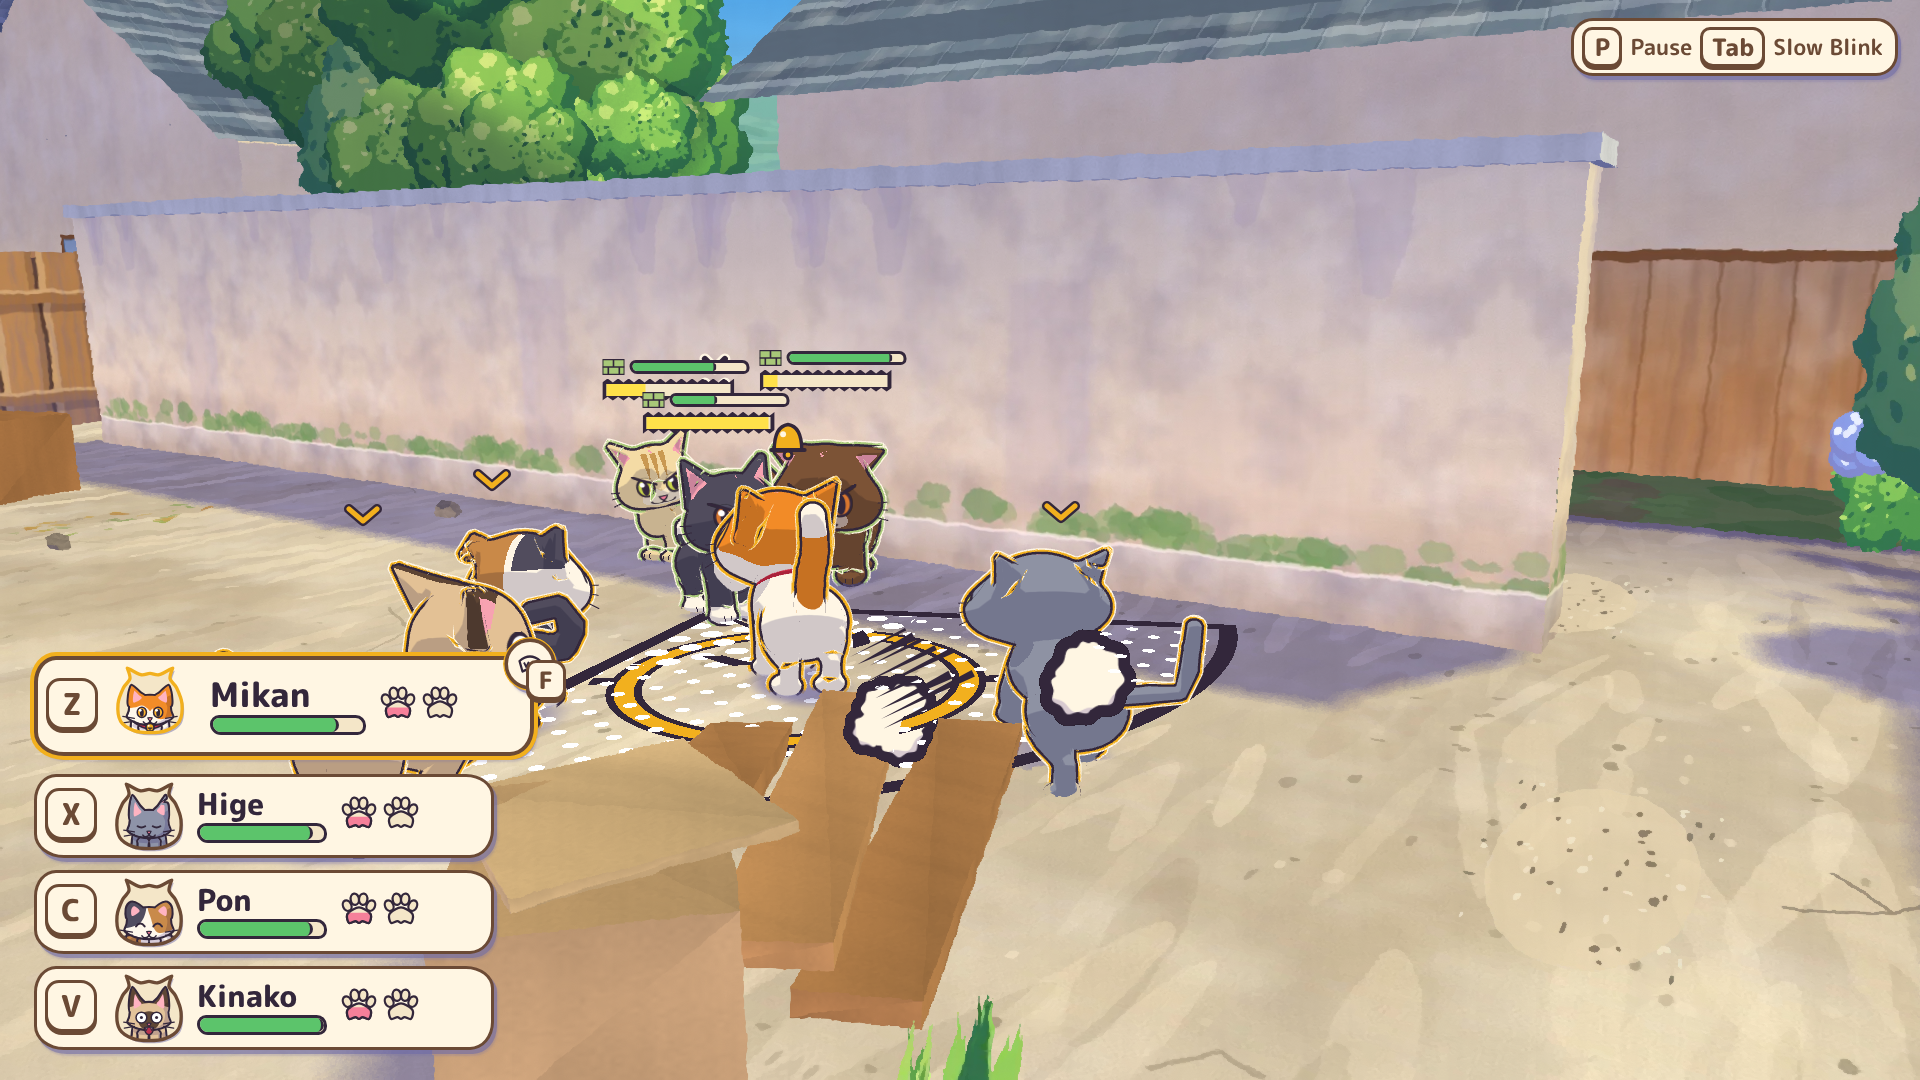
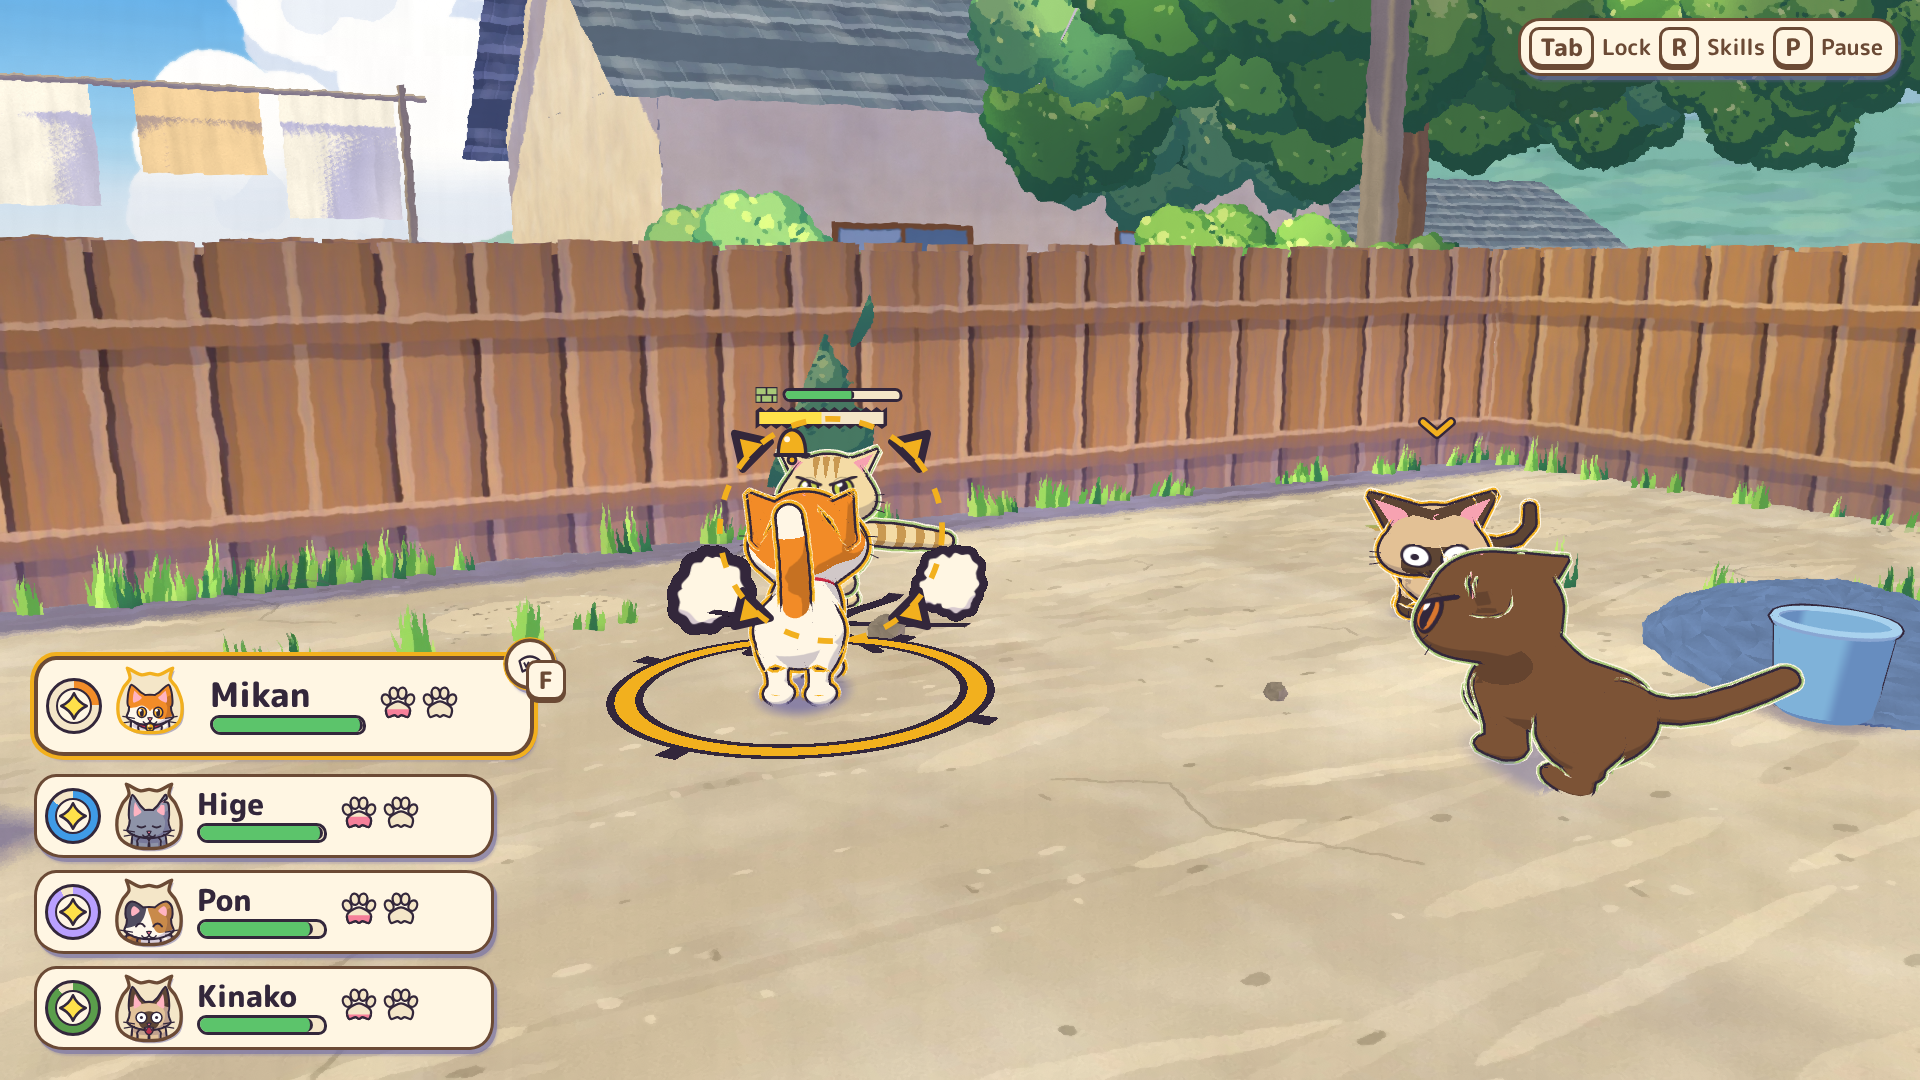
feat(M1.1): combat sim rework - Mikan-only control, one-slot buffer, move-out gradient, L/H strings, cat AI with attack tokens, F special chain and team finisher, R skill bar; 68 tests
Claude-Session: https://claude.ai/code/session_01K9BzCtu5ca2nRxDXecreHZ

diff --git a/prototypes/artifact-slice/src/entries/combat.js b/prototypes/artifact-slice/src/entries/combat.js
@@ -4,7 +4,7 @@
 // on twos, the screen layer (lines, lettering, Pile-On set-piece) and the kit-CSS HUD.
 // Query params:
 //   ?fight=toughs3|captain|daifuku|sandbox|challenger|lose   (encounter; default toughs3)
-//   ?seed=N  ?phase=day|dusk  ?script=bot|median|daifuku|passive (a bot drives the controlled cat; demo/attract)
+//   ?seed=N  ?phase=day|dusk  ?script=demo (an M1.1 player bot drives Mikan) | bot|median|daifuku|passive (sim smoke bots)
 //   ?test=1 (deterministic: no real-time pacing; window.__cat drives frames)  ?flash=reduce  ?motion=0..1
 //   ?res=0.85 (render scale)  ?post=0 (paint post off)  ?hud=0  ?brace=toggle  ?rim=0 (drop the cream rim shell: -1 pass per cat)
 import * as THREE from 'three';
@@ -687,7 +687,7 @@ async function boot() {
   }
   input.bind();
   chapterPill();
-  hud.setHint(script ? 'Demo: a bot is playing · reload without ?script to fight yourself' : 'WASD move · LMB attack · Space hop · Shift skitter · RMB brace · F hiss / Pile-On · Tab Slow Blink · 1-4 Moves · Z X C V switch · wheel lock · P pause');
+  hud.setHint(script ? 'Demo: a bot is playing · reload without ?script to fight yourself' : 'Click to capture the mouse · WASD move · LMB light · RMB heavy (hold) · Space dodge · Shift dash · Tab lock-on · F Special (staggered enemy) · R skills · P pause');
   let last = performance.now(), first = true;
   const loop = (now) => {
     const dt = Math.min(0.05, (now - last) / 1000); last = now;

diff --git a/production/qa/evidence/artifact-slice/M1/README.md b/production/qa/evidence/artifact-slice/M1/README.md
@@ -96,6 +96,31 @@ main-thread time under SwiftShader. Real-time FPS on a GPU is unmeasured.
 - **Clip:** `fight-clip.webm` is 7 s at 60 fps around a Tough Rout, for judging shake and hit-stop in motion.
 - Run `node tools/m1-shots.mjs --only brawl,clip` for those two sections.
 
+
+## M1.1 (owner direction, `design/reviews/owner-feedback/combat-m1.1-spec.md`): presentation
+
+The player controls **Mikan only**. Controls: WASD move; the mouse drives the camera (click captures the pointer);
+LMB light; RMB heavy (hold to charge); Space dodge; Shift dash; **Tab lock-on cycle**; **F Special** (a context
+prompt, only on a staggered enemy); **R skill bar**; P / Esc pause. The gamepad mirrors this but is untested.
+Z X C V switching and the Tag-In cue are gone. Run `?script=demo` for the M1.1 player bot. The presentation reads the
+reworked sim's API (`light`, `heavy` held, `dodge`, `dash`, `special`, `skillBar`, `lockOn`; `special_prompt`,
+`special_chain`, `intent`, `staggered_s`, `attack`) and falls back to the M1 inputs on the old sim.
+
+| File | What it shows |
+|---|---|
+| `stagger-01..04.png`, `stagger-sheet.png` | Stagger cinematic. A zoom onto the staggered cat with a ≈ 30° swing so Mikan does not hide it, the sim's time slow, then the shattered-glass blink: Ink and Cream cracks, with Cream shard tints at ≤ 0.16 alpha so they pulse softly and never strobe. Full treatment for Captains, Bosses and the first stagger; light for Toughs |
+| `special-cutin-1..4a/b.png`, `team-finisher-1..3.png`, `special-chain-sheet.png` | F Special chain. Mikan's cut-in, then each crew cat with a ready meter, then the Team finisher (the Pile-On art, one beat per cat with its face and word), ending on KA-BLAM. During each cut-in, time is stopped and only that cat renders, close up, over an impact-frame panel: the cat's colour value-matched to the frame's mean luminance, full-field Ink lines, a 3-drawing halftone wipe in. The name band shows the Special (Midnight Laps / Landslide / Midnight Aria) and the chain's paw pips. Cut-ins are shortened after the first chain (the sim's timing) |
+| `skillbar-*.png` | Skill bar (R). Time slows; Q/E picks a crew cat to force its skill; target brackets; the cast shows a name banner in the cat's colour, a wind-up pose and a plate highlight |
+| `latency-*.png`, `results.json.latency` | Three rapid clicks. The first light is on screen within the sim's first active frame (`latency_ticks`); the later presses are dropped or buffered (the one-slot buffer), so three attacks never queue |
+| `stalk-1..4.png`, `stalk-sheet.png`, `results.json.intents` | AI intents, animated. While squaring off, cats face their opponent: a low creep for circling, stalking and flanking; an arched, puffed posture with hiss glyphs and claw ticks; a crouched retreat; a stretched dash-in with a streak. The sim's `intent` is used when it is specific; its default is refined from the cat's motion |
+| `brawl10.png` | 10-cat triangle budget (`results.json.brawl`) |
+| `fight-clip.webm` | 10 s at 60 fps: strings, a stagger, the full Special chain and the Team finisher |
+
+Plates no longer show control keys. Each plate has a Special meter (a ring in the cat's colour; it pulses when full)
+and lights in the caster's colour when that cat uses a Move. A lock-on reticle marks the locked enemy, and an F
+SPECIAL prompt appears over a staggered enemy when Mikan's meter is ready. The key strip reads Tab Lock · R Skills ·
+P Pause.
+
 ## Known gaps / deviations (for the art + creative directors)
 
 - **Combat poses are procedural** (lunge, recoil, squash, arch, puff, splat) on a wrapper: the cat rig has only

diff --git a/design/gdd/camera-system.md b/design/gdd/camera-system.md
@@ -320,6 +320,8 @@ Combat distance is solved from frame width (§4.2), so changing FOV does not shr
 
 ## Revision Log
 
+- **2026-11-24 · M1.1 owner direction (design/reviews/owner-feedback/combat-m1.1-spec.md §1, §5, §6).** The combat camera is **free by default**: a third-person orbit around Mikan on the mouse / right stick (3.8 m, +12°, pitch −4° to +40°), no auto-recentre. **Tab (R3) is a lock-on cycle**: a press locks the nearest enemy; a press when the nearest enemy is a different one locks that one; otherwise it unlocks. While locked, the behind-the-cat framing of the previous entry applies (soft-lock recentre on the Mikan→target line). New overlays: the **stagger focus** (≤ 0.5 s: the pivot leans 60% toward the staggered cat, distance −45% full / −20% light, the view swings ≈ 30° off the line so Mikan does not hide it) and the **Special cut-in camera** (a separate close camera on the acting cat, waist-up, slow push-in, slight tilt allowed behind the impact-frame panel; the gameplay camera holds and returns with a 0.2 s blend). The skill bar (R) uses the Slow Blink pose. Built in `prototypes/artifact-slice/src/camera/combat.js` and `src/render/vfx/cinematics.js`.
+
 - **2026-11-24 · Owner combat direction M1.1 (2026-11-24).** Source `design/reviews/owner-feedback/combat-m1.1-spec.md` (final bindings F = Special, R = skill bar, Tab = lock-on). §1–§2: states renamed (Skill bar), commander's seat. §3.1–§3.2: Combat row free orbit by default; Slow Blink row becomes the skill bar. §3.5: soft lock and hard lock replaced by **free orbit** plus the **Tab lock-on cycle** (lock nearest / switch to a new nearest / unlock; releases without auto-retarget); Tag-In and switching removed (player controls Mikan only); Mikan-Routed pivot rule. §3.7: Pile-On and Zoomies cinematics replaced by the **stagger zoom**, **Special cut-in** (punch-in, time stop, single-cat impact-frame panel), the auto **chain** and the **Team Pile-On**, all inside Combat §3.17's flash/shake limits. §3.11 options (Reduce Motion, lock-on), §4.1–§4.2 framing (C = Mikan), edge cases 2–6, 8, 13, 15, dependencies, knobs (lock, stagger zoom, Special punch-in, skill bar), T1/T5 and pass conditions 2, 4, 15.
 - **2026-11-24 · Owner direction: third-person behind the cat (2026-11-24).** The owner asked for "a third-person POV like FF7 Remake"; the M1 directors' review (FIX, camera 3/10) found the 6.0–7.2 m / +25° tactical rig put the controlled cat at 5–14% of screen height. Combat row (§3.2), the combat size row and floors (§4.1), §7 knobs and acceptance 2–3 amended: the rig sits behind the controlled cat at 3.8 m (3.5–4.5 m), +12°, with a 0.45 m shoulder offset and a 20% lead toward the lock target; it pulls out to ≤ 6 m only while the target is far; controlled cat ≥ 20%, lock target ≥ 12%. Slow Blink now pushes in low behind the cat (4.6 m, +20°) instead of lifting to 8.5 m / +50° (preview 03). §4.2's frame-width formula is superseded by these values for the slice; §3.5's soft-lock now recentres behind the cat (60°/s, 120°/s when the target leaves the frame). Built in `prototypes/artifact-slice/src/camera/combat.js`.
 

diff --git a/prototypes/artifact-slice/README.md b/prototypes/artifact-slice/README.md
@@ -48,8 +48,10 @@ Keep the quotes and the `*.test.mjs` globs: Node 22 expands them itself, and a b
 node tools/sim-run.mjs --seeds 30
 ```
 
-The first runs the unit tests (F1–F7 and F11 worked examples, determinism by hash, the join-in guest leaving the
-opposing Rival's AI bit-identical, Old Gang Nerves, the arbiter's flash and hit-stop caps) and the smoke bots on
+The first runs the unit tests (F1–F5, F7 and F11 worked examples, determinism by hash, the join-in guest leaving the
+opposing Rival's AI bit-identical, Old Gang Nerves, the arbiter's flash and hit-stop caps, and the M1.1 input model:
+the one-slot buffer, first-active-frame latency, the move-out gradient, L-L-L-H, lock-on, attack tokens, the Special
+chain and Team finisher) and the smoke bots on
 3 seeds. The second prints fight lengths per scenario (skilled, median-policy, scripted-Daifuku and passive bots)
 against the GDD's F9 figures and exits non-zero if a bot misses its expectation (`--only <id>`, `--json out.json`).
 
